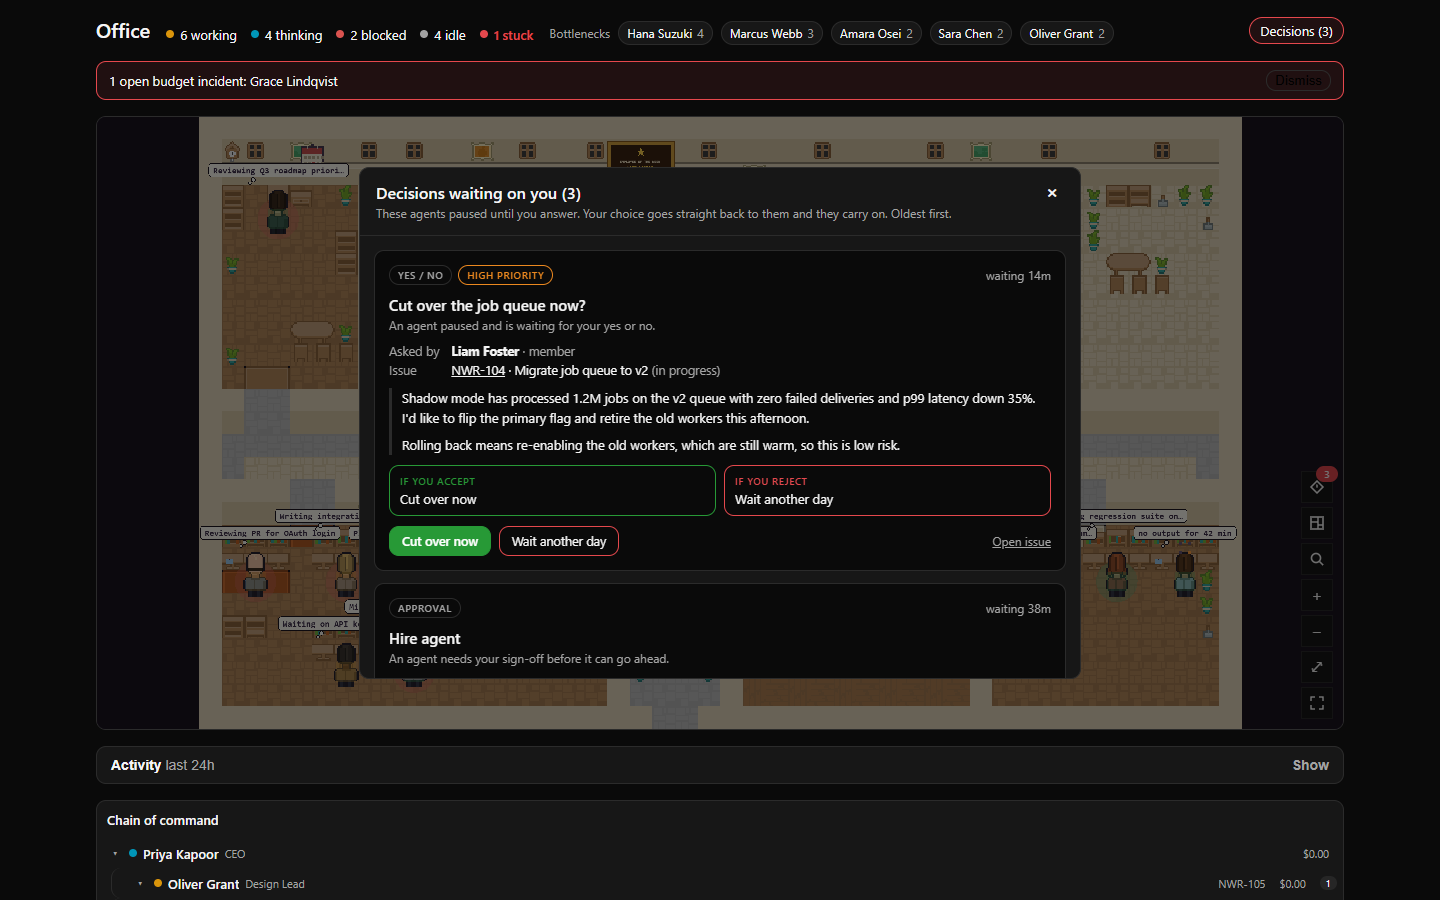
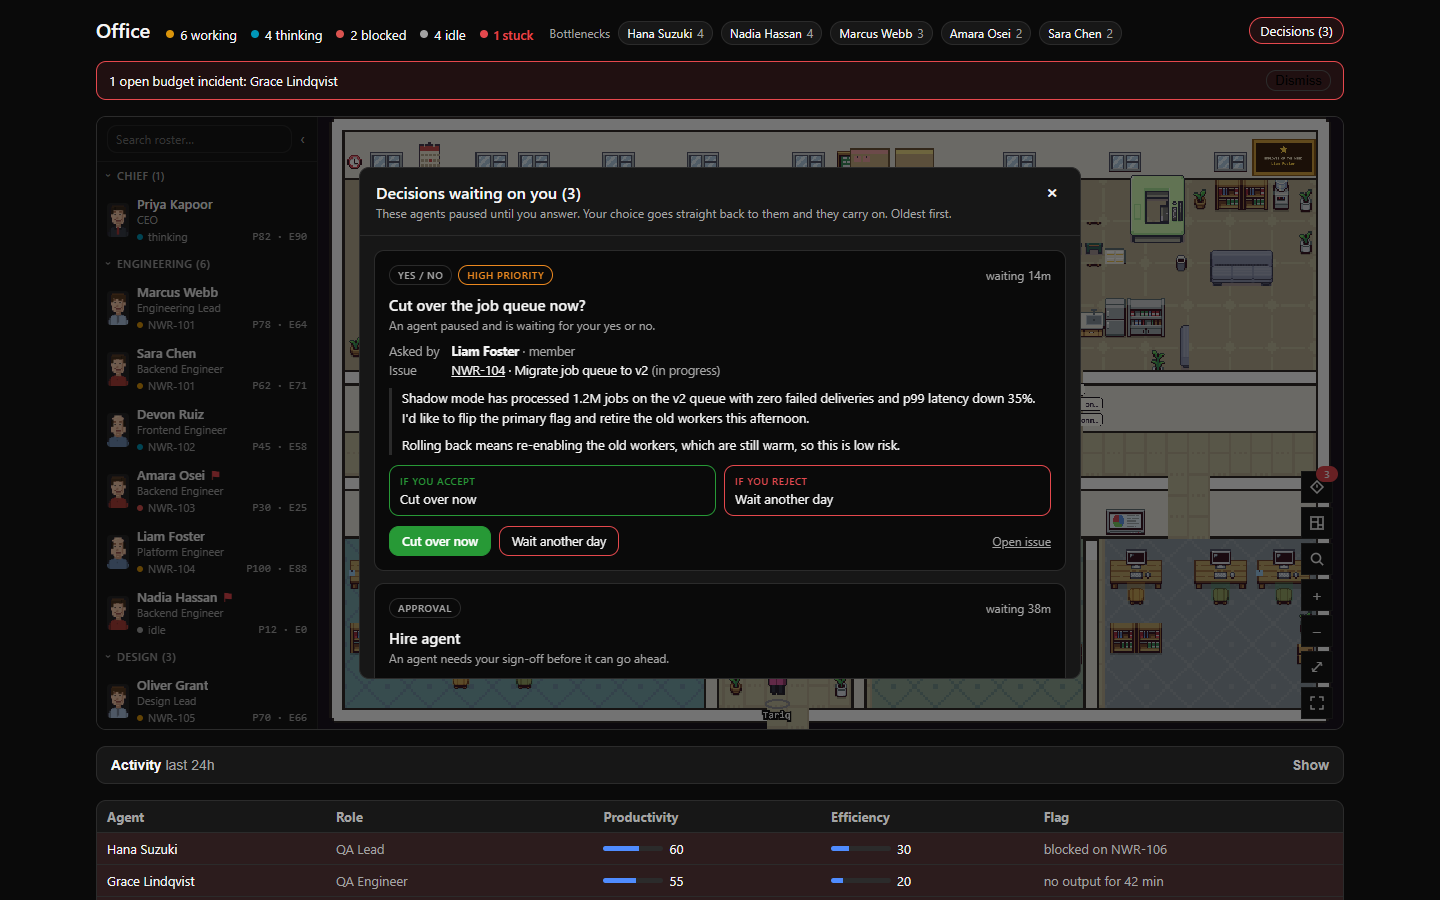
Readable labels at every zoom, PA drawn from the cast, floor makes room for the roster; new screenshots

diff --git a/src/ui/paCharacter.ts b/src/ui/paCharacter.ts
@@ -1,4 +1,7 @@
 import { Container, Graphics, Text, Ticker } from "pixi.js";
+import { CharacterSprite, type Direction } from "../../vendor/munder-difflin/src/renderer/src/scene/office/CharacterSprite.js";
+import { loadTheme } from "../overrides/themeLoader.js";
+import { attireCast } from "../shared/roleAttire.js";
 import { useStore } from "../adapters/store.js";
 import { deskVisitOrder } from "../layout/seatAssignment.js";
 import { getEntranceTile, getSceneTileSize, getSeatAssignments, findWalkPath } from "./seatMap.js";
@@ -36,27 +39,40 @@ type Phase = "spawning" | "walking" | "visiting";
  *  it never claims a seat, never joins the store's agent list, and stays out of every board that
  *  reads that list (counts, roster, scoreboard, search, Wall of Fame). Mounted once per floor by
  *  the Camera override, alongside the heatmap and nameplate layers. */
+function directionTo(x: number, y: number, p: { x: number; y: number }): Direction {
+  const dx = p.x - x;
+  const dy = p.y - y;
+  if (Math.abs(dx) > Math.abs(dy)) return dx > 0 ? "right" : "left";
+  return dy > 0 ? "down" : "up";
+}
+
 export function mountPa(world: Container): void {
   const layer = new Container();
   layer.visible = false;
   world.addChild(layer);
 
-  const body = new Graphics();
-  body.ellipse(0, -10, 3.2, 3.2).fill(0x1c2430);
-  body.roundRect(-3.4, -18, 6.8, 9, 1).fill(0x1c2430);
-  body.rect(-1, -18, 2, 4).fill(0x3d6ea8);
+  const body = new Container();
+  let sprite: CharacterSprite | null = null;
+  let anim = "";
+  void loadTheme(useStore.getState().officeTheme).then(async (theme) => {
+    const frames = await theme.cast.getFrames(attireCast("pa")[0]);
+    if (layer.destroyed) return;
+    sprite = new CharacterSprite(frames);
+    body.addChild(sprite.container);
+  });
 
-  const name = new Text({ text: NAME, style: { fontFamily: "monospace", fontSize: 3.2, fill: 0xf4f4f4, fontWeight: "bold" } });
+  const name = new Text({ text: NAME, style: { fontFamily: "monospace", fontSize: 10, fill: 0xffd166, fontWeight: "bold", stroke: { color: 0x111111, width: 3 } } });
   name.resolution = 5;
   name.anchor.set(0.5, 0);
-  name.position.set(0, 2);
 
+  const bubble = new Container();
   const bubbleBg = new Graphics();
-  const bubbleText = new Text({ text: "", style: { fontFamily: "monospace", fontSize: 3, fill: 0x2a2a2a } });
+  const bubbleText = new Text({ text: "", style: { fontFamily: "monospace", fontSize: 10, fill: 0x2a2a2a, fontWeight: "bold" } });
   bubbleText.resolution = 5;
   bubbleText.anchor.set(0.5, 0.5);
+  bubble.addChild(bubbleBg, bubbleText);
 
-  layer.addChild(body, name, bubbleBg, bubbleText);
+  layer.addChild(body, name, bubble);
 
   let px = 0;
   let py = 0;
@@ -133,15 +149,25 @@ export function mountPa(world: Container): void {
 
     layer.position.set(px, py);
     const visiting = phase === "visiting";
-    bubbleBg.visible = visiting;
-    bubbleText.visible = visiting;
+    const walkDir: Direction = path.length ? directionTo(px, py, tileToPixel(path[0], ts)) : "down";
+    const nextAnim = visiting ? "idle:down" : `walk:${walkDir}`;
+    if (sprite && nextAnim !== anim) {
+      const [a, d] = nextAnim.split(":") as ["idle" | "walk", Direction];
+      sprite.setAnimation(a, d);
+      anim = nextAnim;
+    }
+    const inv = 1 / world.scale.x;
+    name.scale.set(inv);
+    name.position.set(0, 4);
+    bubble.scale.set(inv);
+    bubble.position.set(0, -34);
+    bubble.visible = visiting;
     if (visiting) {
       const agent = byId.get(order[visitIndex]);
       const msg = agent ? messageFor(agent as { scores?: { flag?: string | null } | null; issueLabel?: string | null }) : "Status update?";
       if (bubbleText.text !== msg) bubbleText.text = msg;
-      const w = Math.max(22, bubbleText.width + 6);
-      bubbleBg.clear().roundRect(-w / 2, -32, w, 12, 3).fill({ color: 0xfff6d8, alpha: 0.96 }).stroke({ width: 0.6, color: 0x8a7530 });
-      bubbleText.position.set(0, -26);
+      const w = bubbleText.width + 14;
+      bubbleBg.clear().roundRect(-w / 2, -11, w, 22, 6).fill({ color: 0xfff6d8, alpha: 0.97 }).stroke({ width: 1.5, color: 0xb23a3a });
     }
   };
 

diff --git a/src/ui/agentLabels.ts b/src/ui/agentLabels.ts
@@ -5,6 +5,9 @@ import type { OfficeSettings } from "../shared/settings.js";
 const TEXT_RESOLUTION = 5;
 const RING_RADIUS = 9;
 const ZOOM_HIDE_BELOW = 0.55;
+const ZOOM_DETAIL = 1.5;
+const NAME_PX = 10;
+const TAG_PX = 9;
 
 /** Anything with the two Character methods this layer needs; the real type is upstream's class. */
 interface LiveCharacter {
@@ -50,7 +53,7 @@ function ringColorFor(status: string, stuck: boolean): number {
 }
 
 function label(size: number, color: number, weight: "bold" | "normal" = "bold"): Text {
-  const t = new Text({ text: "", style: { fontFamily: "monospace", fontSize: size, fill: color, fontWeight: weight } });
+  const t = new Text({ text: "", style: { fontFamily: "monospace", fontSize: size, fill: color, fontWeight: weight, stroke: { color: 0x111111, width: size / 3 } } });
   t.resolution = TEXT_RESOLUTION;
   t.anchor.set(0.5, 0);
   return t;
@@ -76,8 +79,8 @@ function drawFlag(g: Graphics): void {
 function makeSlot(): Slot {
   const container = new Container();
   const ring = new Graphics();
-  const name = label(3.4, 0xf4f4f4);
-  const tag = label(3, 0xffe08a);
+  const name = label(NAME_PX, 0xf4f4f4);
+  const tag = label(TAG_PX, 0xffd166);
   const flag = new Graphics();
   drawFlag(flag);
   container.addChild(ring, name, tag, flag);
@@ -96,6 +99,8 @@ export function mountAgentLabels(world: Container): void {
     const seen = new Set<string>();
     const zoom = world.scale.x;
     const tooSmall = zoom < ZOOM_HIDE_BELOW;
+    const detail = zoom >= ZOOM_DETAIL;
+    const textScale = 1 / zoom;
 
     for (const a of agents) {
       const character = live.get(a.id);
@@ -126,17 +131,18 @@ export function mountAgentLabels(world: Container): void {
       slot.name.visible = settings.nameplates;
       if (settings.nameplates) {
         const roleShort = String((a as { roleShort?: unknown }).roleShort ?? "");
-        const text = roleShort ? `${a.name} · ${roleShort}` : a.name;
+        const text = detail && roleShort ? `${a.name} · ${roleShort}` : detail ? a.name : a.name.split(" ")[0];
         if (text !== slot.lastNameText) {
           slot.name.text = text;
           slot.lastNameText = text;
         }
-        slot.name.position.set(0, 10);
+        slot.name.scale.set(textScale);
+        slot.name.position.set(0, 5);
       }
 
       const issueLabel = (a as { issueLabel?: unknown }).issueLabel;
       const issueTitle = (a as { issueTitle?: unknown }).issueTitle;
-      const showTag = settings.issueTags && typeof issueLabel === "string" && a.status !== "idle" && a.status !== "waiting" && a.status !== "ghost";
+      const showTag = settings.issueTags && typeof issueLabel === "string" && a.status !== "idle" && a.status !== "waiting" && a.status !== "ghost" && detail;
       slot.tag.visible = showTag;
       if (showTag) {
         const rawTitle = typeof issueTitle === "string" ? issueTitle : "";
@@ -146,7 +152,8 @@ export function mountAgentLabels(world: Container): void {
           slot.tag.text = text;
           slot.lastTagText = text;
         }
-        slot.tag.position.set(0, -40);
+        slot.tag.scale.set(textScale);
+        slot.tag.position.set(0, 5 + (settings.nameplates ? (NAME_PX + 2) * textScale : 0));
       }
     }
 

diff --git a/src/ui/index.tsx b/src/ui/index.tsx
@@ -14,7 +14,7 @@ import { AgentSearch } from "./AgentSearch.js";
 import { DecisionBox } from "./DecisionBox.js";
 import { DECISIONS_DATA_KEY, type DecisionItem } from "../shared/decisions.js";
 import { OfficeScene } from "./OfficeScene.js";
-import { RosterSidebar } from "./RosterSidebar.js";
+import { ROSTER_WIDTH, RosterSidebar } from "./RosterSidebar.js";
 import { SceneControls } from "./SceneControls.js";
 import { OrgPanel } from "./OrgPanel.js";
 import { WallOfFame } from "./WallOfFame.js";
@@ -270,6 +270,7 @@ export function OfficePage({ context }: PluginPageProps) {
   const decisionBoxOn = data?.settings.decisionBox ?? true;
   const sceneRef = useRef<HTMLDivElement>(null);
   const [full, setFull] = useState(false);
+  const rosterOpen = useStore((s) => s.rosterOpen) && (data?.settings.rosterSidebar ?? true);
   const [picked, setPicked] = useState<LayoutChoice | null>(null);
   const saved = data?.layout;
   useEffect(() => {
@@ -307,7 +308,9 @@ export function OfficePage({ context }: PluginPageProps) {
           position: "relative",
         }}
       >
-        <OfficeScene companyId={companyId} data={data ?? undefined} layout={layout} />
+        <div style={{ position: "absolute", inset: 0, left: rosterOpen ? ROSTER_WIDTH : 0 }}>
+          <OfficeScene companyId={companyId} data={data ?? undefined} layout={layout} />
+        </div>
         {(data?.settings.rosterSidebar ?? true) && <RosterSidebar data={data ?? null} />}
         <WallOfFame companyId={companyId} office={data ?? null} />
         {/* Inside the fullscreen element, or the browser hides it in fullscreen. */}

diff --git a/src/ui/RosterSidebar.tsx b/src/ui/RosterSidebar.tsx
@@ -5,6 +5,7 @@ import { fuzzyFilterAgents, type SearchCandidate } from "./fuzzyMatch.js";
 import { STATE_COLOR } from "./stateColors.js";
 import { tokens } from "./tokens.js";
 
+export const ROSTER_WIDTH = 220;
 const STORAGE_KEY = "office:rosterSidebar:open";
 
 function readOpen(): boolean {
@@ -103,7 +104,11 @@ function DeptGroup({ name, agents, onPick }: { name: string; agents: OfficeAgent
 export function RosterSidebar({ data }: { data: OfficeData | null }) {
   const [open, setOpen] = useState(readOpen);
   const [query, setQuery] = useState("");
-  useEffect(() => writeOpen(open), [open]);
+  useEffect(() => {
+    writeOpen(open);
+    useStore.setState({ rosterOpen: open });
+    return () => useStore.setState({ rosterOpen: false });
+  }, [open]);
 
   const agents = data?.agents ?? [];
   const filteredIds = useMemo(() => {
@@ -142,7 +147,7 @@ export function RosterSidebar({ data }: { data: OfficeData | null }) {
   return (
     <div
       style={{
-        position: "absolute", left: 0, top: 0, bottom: 0, width: 220, zIndex: 30,
+        position: "absolute", left: 0, top: 0, bottom: 0, width: ROSTER_WIDTH, zIndex: 30,
         background: tokens.surface, borderRight: `1px solid ${tokens.border}`,
         display: "flex", flexDirection: "column", overflow: "hidden",
       }}

diff --git a/src/adapters/store.ts b/src/adapters/store.ts
@@ -34,6 +34,7 @@ interface State {
   fullscreenAgentId: string | null;
   ideOpen: boolean;
   decisionBoxOpen: boolean;
+  rosterOpen: boolean;
   select: (id: string) => void;
   requestCommandCenterTab: (tab: string) => void;
   setAgents: (agents: Agent[]) => void;
@@ -46,6 +47,7 @@ const store = createStore<State>((set) => ({
   fullscreenAgentId: null,
   ideOpen: false,
   decisionBoxOpen: false,
+  rosterOpen: false,
   select: (id) => set({ selectedId: id }),
   requestCommandCenterTab: () => {},
   setAgents: (agents) => set({ agents }),

diff --git a/README.md b/README.md
@@ -17,7 +17,7 @@ Every agent sits at a desk and shows what it's doing right now. Work flies betwe
 
 ![The office floor for a fictional 16-agent company](docs/screenshots/office.png)
 
-<sub>All screenshots use a made-up company ("Northwind Robotics") from the built-in demo. No real data.</sub>
+<sub>All screenshots use a made-up company ("Northwind Robotics") from the built-in demo, drawn with LimeZu Modern Interiors art (bring your own copy; a free CC0 theme ships in the box). No real data.</sub>
 
 </div>
 
@@ -143,15 +143,13 @@ Paperclip Office runs on the office engine from [munder-difflin](https://github.
 <table>
 <tr>
 <td width="50%"><img src="docs/screenshots/decisions.png" alt="Decision box"><br><b>Decision box.</b> Everything waiting on you, with the full request and both outcomes.</td>
-<td width="50%"><img src="docs/screenshots/agent-monitor.png" alt="Agent monitor"><br><b>Agent monitor.</b> One agent's issue, run, queue, cost and chain of command.</td>
+<td width="50%"><img src="docs/screenshots/agent-monitor.png" alt="Agent monitor"><br><b>Agent monitor.</b> One agent's issue, runs, team and its productivity and efficiency scores.</td>
 </tr>
 <tr>
 <td width="50%"><img src="docs/screenshots/widget.png" alt="Dashboard widget"><br><b>Dashboard widget.</b> Counts, decisions and who is on what.</td>
-<td width="50%"><img src="docs/screenshots/layout-campus.png" alt="Campus layout"><br><b>Layouts.</b> The same company in the campus preset.</td>
+<td width="50%"><img src="docs/screenshots/office-closeup.png" alt="Zoomed in"><br><b>Zoomed in.</b> Name and role plates, issue tags, and the PA checking on an idle agent who has work waiting.</td>
 </tr>
 </table>
-
-<p align="center"><img src="docs/screenshots/office-closeup.png" alt="Close-up of the floor" width="85%"><br><sub>Close-up: desks, bubbles and the free Kenney art.</sub></p>
 
 ## Install
 
